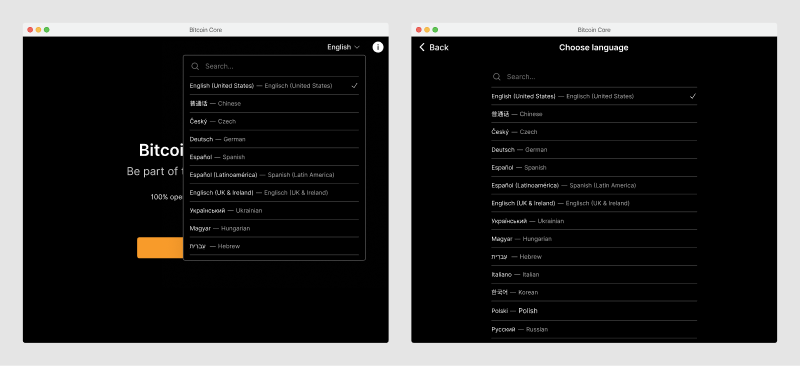
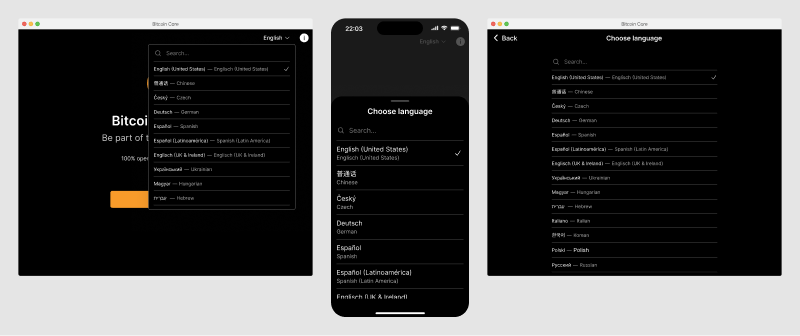
Updated language visual on cover screen with mobile view

Changed region(s): [[0.0, 0.0298, 1.0, 0.9524]]

diff --git a/pages/settings/display.md b/pages/settings/display.md
@@ -27,9 +27,9 @@ The application should match localization to what the operating system provides.
 	image = "/assets/images/settings/language.png"
 	retina = "/assets/images/settings/language@2x.png"
 	big = "/assets/images/settings/language-big.png"
-	alt-text = "Two screens showing the language picker on the cover screen and in settings"
+	alt-text = "Three screens showing the language picker on the cover screen, on mobile, and in settings"
 	width = 800
-	height = 366
+	height = 336
 %}
 
 Languages are shown in the language itself, and in the currently chosen language. Countries/regions are added to language names to differentiate dialects.
